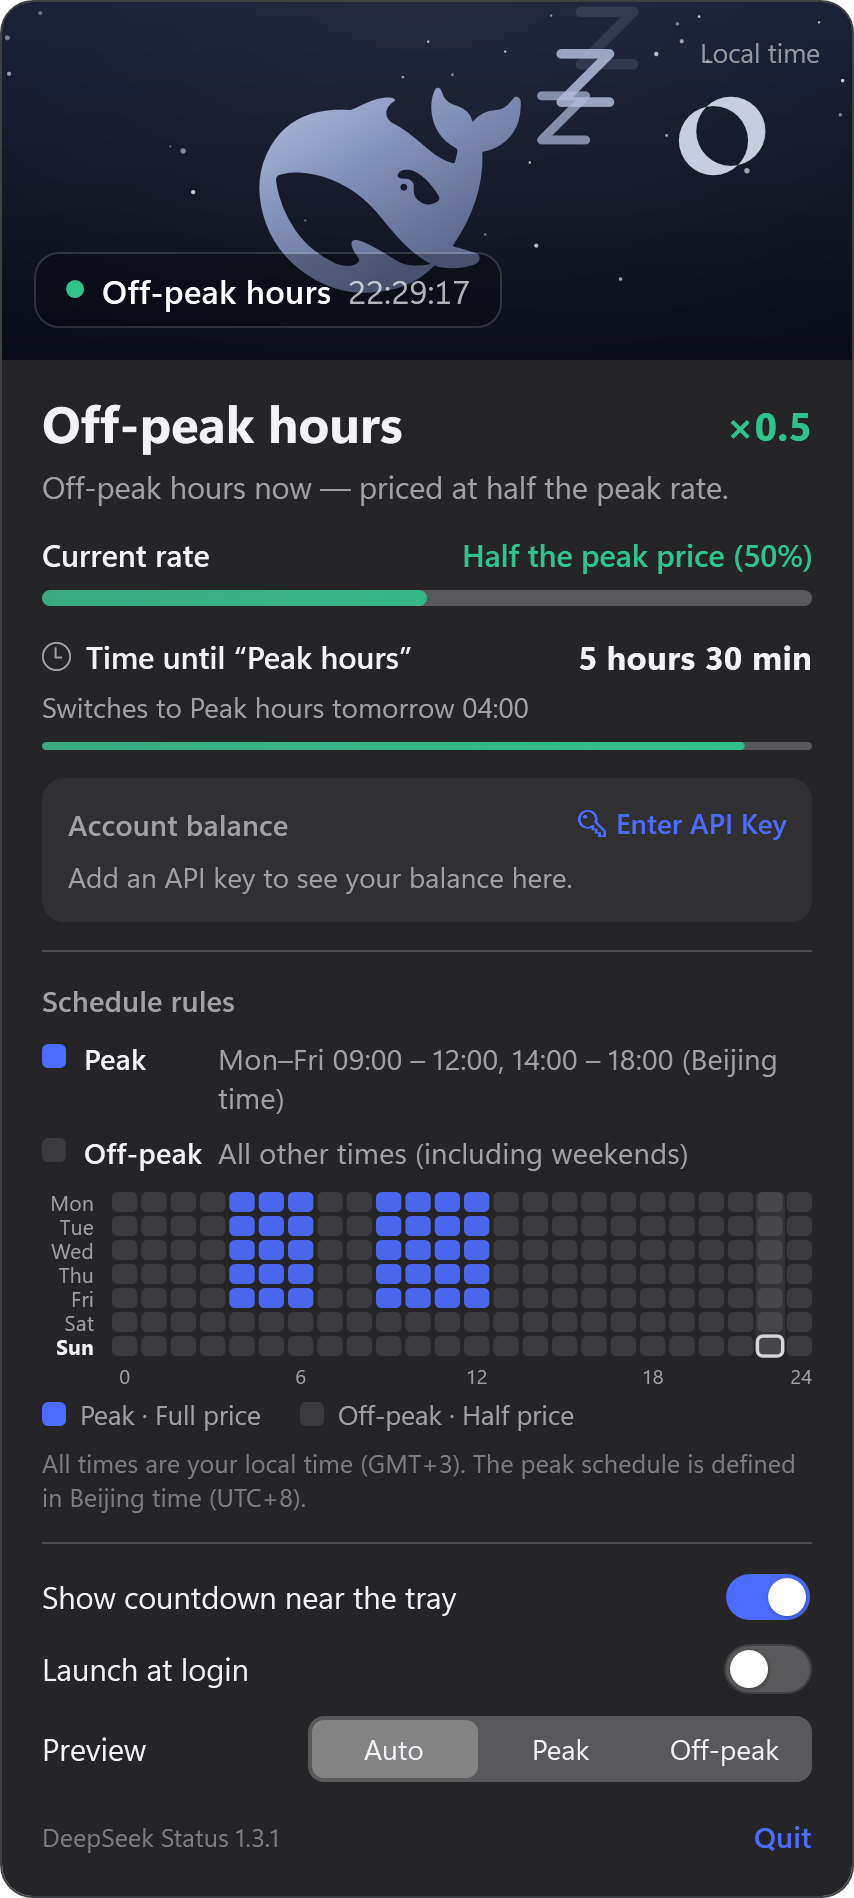
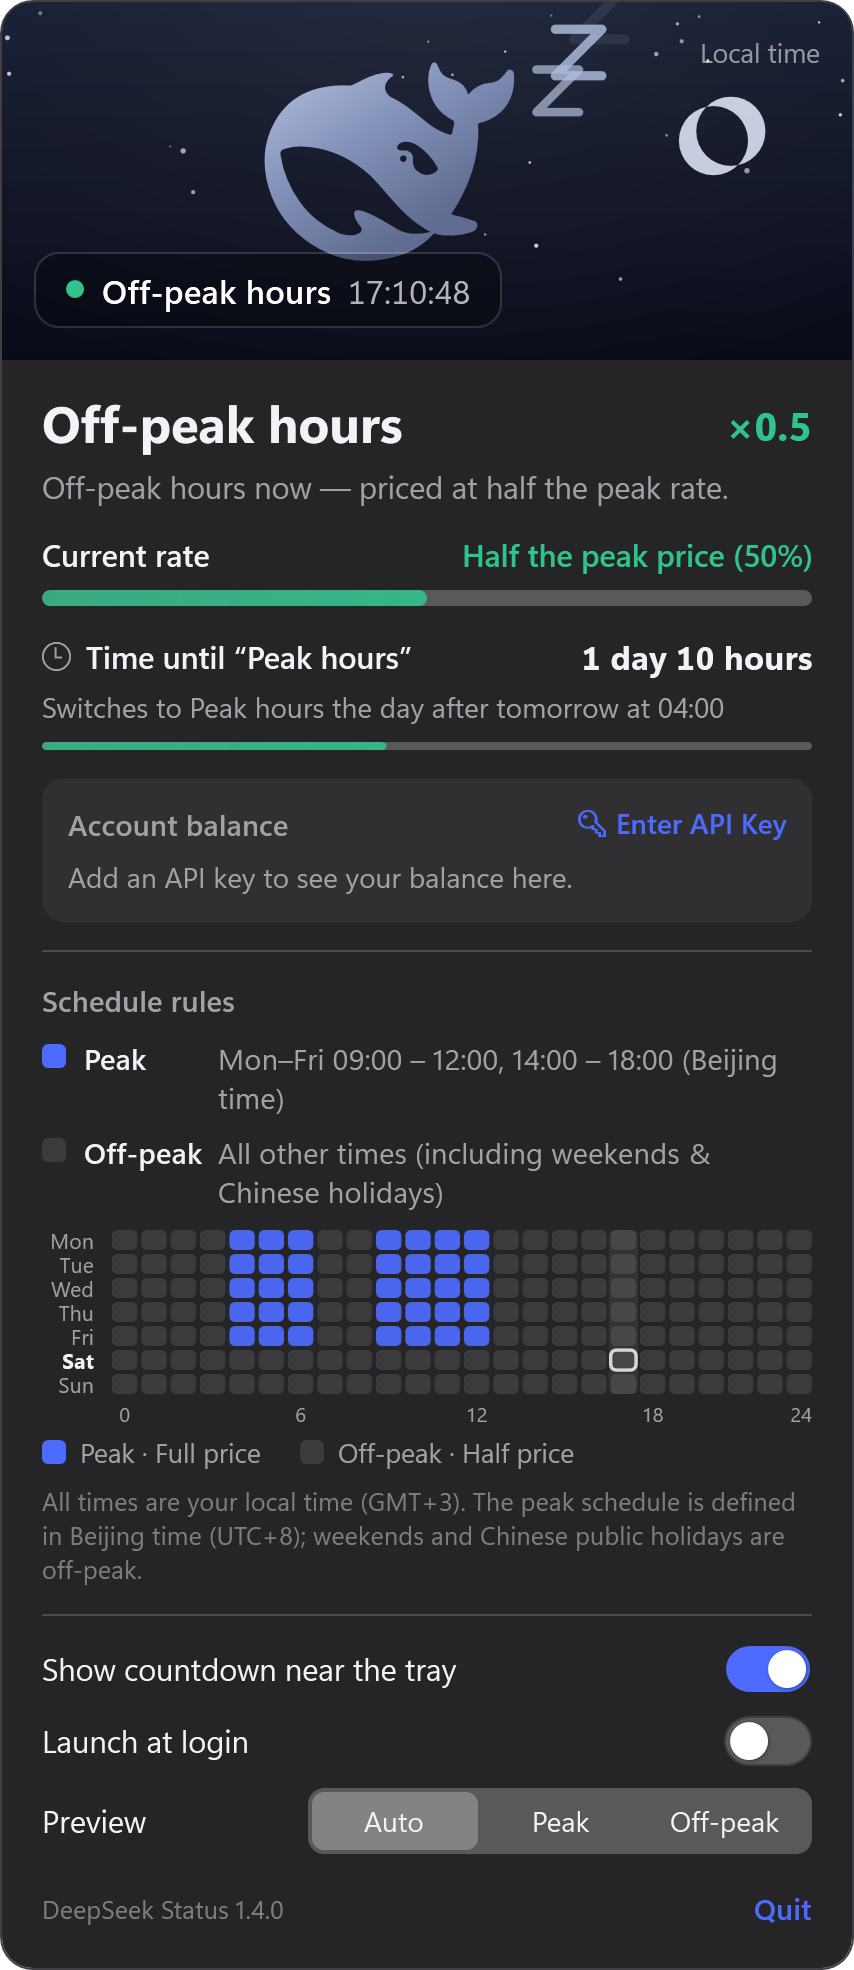
Bill Chinese public holidays as off-peak
DeepSeek's updated pricing notice excludes Chinese public holidays from peak hours and keeps adjusted-work-day weekends off-peak. Adds an embedded holiday calendar (State Council notices 2025-2026, via holiday-cn), holiday-aware period/transition/interval logic, a panel notice on holidays, an updater script and holiday self-tests. Bumps version to 1.4.0.

diff --git a/src/DeepSeekStatus/Views/PanelWindow.xaml b/src/DeepSeekStatus/Views/PanelWindow.xaml
@@ -172,6 +172,9 @@
                     </Grid>
                     <TextBlock x:Name="PeriodSummary" Margin="0,5,0,0" FontSize="15.3"
                                Foreground="{DynamicResource TextSecondary}" TextWrapping="Wrap" />
+                    <TextBlock x:Name="HolidayNotice" Margin="0,5,0,0" FontSize="14"
+                               Foreground="{DynamicResource TextSecondary}" TextWrapping="Wrap"
+                               Visibility="Collapsed" />
 
                     <Grid Margin="0,14,0,0">
                         <TextBlock x:Name="CurrentRateLabel" FontSize="15.3" FontWeight="Medium"

diff --git a/src/DeepSeekStatus/Models/DeepSeekPricing.cs b/src/DeepSeekStatus/Models/DeepSeekPricing.cs
@@ -11,7 +11,9 @@ public static class DeepSeekPricing
     public static PricePeriod PeriodAt(DateTimeOffset instant)
     {
         var beijing = instant.ToOffset(BeijingOffset);
-        if (beijing.DayOfWeek is DayOfWeek.Saturday or DayOfWeek.Sunday)
+        var day = DateOnly.FromDateTime(beijing.DateTime);
+        if (beijing.DayOfWeek is DayOfWeek.Saturday or DayOfWeek.Sunday
+            || Support.ChineseHolidays.IsHoliday(day))
         {
             return PricePeriod.OffPeak;
         }
@@ -46,7 +48,7 @@ public static class DeepSeekPricing
     {
         var current = PeriodAt(now);
         var day = DateOnly.FromDateTime(now.ToOffset(BeijingOffset).DateTime);
-        for (var i = 0; i < 8; i++)
+        for (var i = 0; i < 32; i++)
         {
             foreach (var candidate in BoundariesOnDay(day.AddDays(i)).Order())
             {
@@ -64,14 +66,21 @@ public static class DeepSeekPricing
     {
         var day = DateOnly.FromDateTime(now.ToOffset(BeijingOffset).DateTime);
         DateTimeOffset? best = null;
-        for (var i = -9; i <= 9; i++)
+        for (var i = -14; i <= 9; i++)
         {
             foreach (var boundary in BoundariesOnDay(day.AddDays(i)))
             {
-                if (boundary <= now && (best is null || boundary > best.Value))
+                if (boundary > now || (best is not null && boundary <= best.Value))
                 {
-                    best = boundary;
+                    continue;
                 }
+
+                if (PeriodAt(boundary.AddSeconds(-1)) == PeriodAt(boundary))
+                {
+                    continue;
+                }
+
+                best = boundary;
             }
         }
 
@@ -106,11 +115,15 @@ public sealed class PricingSnapshot : IEquatable<PricingSnapshot>
     public PricingSnapshot(DateTimeOffset now)
     {
         Now = now;
+        var beijingDay = DateOnly.FromDateTime(now.ToOffset(DeepSeekPricing.BeijingOffset).DateTime);
+        IsHoliday = Support.ChineseHolidays.IsHoliday(beijingDay);
         Period = DeepSeekPricing.PeriodAt(now);
         IntervalStart = DeepSeekPricing.CurrentIntervalStart(now);
         NextTransition = DeepSeekPricing.NextTransition(now);
         NextPeriod = DeepSeekPricing.PeriodAt(NextTransition.AddSeconds(1));
     }
+
+    public bool IsHoliday { get; }
 
     public bool Equals(PricingSnapshot? other) =>
         other is not null
@@ -118,9 +131,10 @@ public sealed class PricingSnapshot : IEquatable<PricingSnapshot>
         && Period == other.Period
         && IntervalStart == other.IntervalStart
         && NextTransition == other.NextTransition
-        && NextPeriod == other.NextPeriod;
+        && NextPeriod == other.NextPeriod
+        && IsHoliday == other.IsHoliday;
 
     public override bool Equals(object? obj) => Equals(obj as PricingSnapshot);
 
-    public override int GetHashCode() => HashCode.Combine(Now, Period, IntervalStart, NextTransition, NextPeriod);
+    public override int GetHashCode() => HashCode.Combine(Now, Period, IntervalStart, NextTransition, NextPeriod, IsHoliday);
 }

diff --git a/src/DeepSeekStatus/Support/SelfTest.cs b/src/DeepSeekStatus/Support/SelfTest.cs
@@ -96,6 +96,25 @@ public static class SelfTest
         Check("balance unauthorized replaces key", new BalanceException(BalanceErrorKind.Unauthorized).SuggestsReplacingKey, true);
         Check("balance http keeps key", new BalanceException(BalanceErrorKind.Http, status: 500).SuggestsReplacingKey, false);
 
+        DateTimeOffset D(int year, int month, int day, int hour, int minute = 0) =>
+            new(year, month, day, hour, minute, 0, DeepSeekPricing.BeijingOffset);
+
+        Check("holiday data covers 2026", ChineseHolidays.CoversYear(2026), true);
+        Check("holiday data lacks 2027", ChineseHolidays.CoversYear(2027), false);
+        Check("national day Thu 10:00", DeepSeekPricing.PeriodAt(D(2026, 10, 1, 10)), PricePeriod.OffPeak);
+        Check("day after holiday Thu 10:00", DeepSeekPricing.PeriodAt(D(2026, 10, 8, 10)), PricePeriod.Peak);
+        Check("adjusted workday Sat 10:00", DeepSeekPricing.PeriodAt(D(2026, 10, 10, 10)), PricePeriod.OffPeak);
+        Check("mid-autumn Fri 10:00", DeepSeekPricing.PeriodAt(D(2026, 9, 25, 10)), PricePeriod.OffPeak);
+        Check("day before mid-autumn Thu 10:00", DeepSeekPricing.PeriodAt(D(2026, 9, 24, 10)), PricePeriod.Peak);
+        Check("spring festival Tue 10:00", DeepSeekPricing.PeriodAt(D(2026, 2, 17, 10)), PricePeriod.OffPeak);
+        Check("2025 national day Wed 10:00", DeepSeekPricing.PeriodAt(D(2025, 10, 1, 10)), PricePeriod.OffPeak);
+        Check("unknown year falls back", DeepSeekPricing.PeriodAt(D(2030, 1, 1, 10)), PricePeriod.Peak);
+        Check("next after holiday starts", DeepSeekPricing.NextTransition(D(2026, 10, 1, 8)), D(2026, 10, 8, 9));
+        Check("next after spring festival", DeepSeekPricing.NextTransition(D(2026, 2, 13, 19)), D(2026, 2, 24, 9));
+        Check("interval start across holiday", DeepSeekPricing.CurrentIntervalStart(D(2026, 10, 5, 10)), D(2026, 9, 30, 18));
+        Check("snapshot holiday flag", new PricingSnapshot(D(2026, 10, 1, 10)).IsHoliday, true);
+        Check("snapshot non-holiday flag", new PricingSnapshot(D(2026, 10, 8, 10)).IsHoliday, false);
+
         const string testTarget = "DeepSeekStatus/selftest-key";
         CredentialManager.Delete(testTarget);
         CredentialManager.Save("sk-selftest-123", testTarget);

diff --git a/src/DeepSeekStatus/Support/Strings.cs b/src/DeepSeekStatus/Support/Strings.cs
@@ -25,14 +25,16 @@ public static class Strings
         ["popover.countdown.detail"] = ("Switches to {1} {0}", "{0} 起转为{1}"),
         ["popover.schedule.title"] = ("Schedule rules", "时段规则"),
         ["popover.schedule.peak.detail"] = ("Mon–Fri 09:00 – 12:00, 14:00 – 18:00 (Beijing time)", "周一至周五 09:00 – 12:00、14:00 – 18:00（北京时间）"),
-        ["popover.schedule.offPeak.detail"] = ("All other times (including weekends)", "其余时间（含周末全天）"),
-        ["popover.footnote.beijing"] = ("All times are Beijing time (UTC+8).", "所有时间均为北京时间（UTC+8）。"),
-        ["popover.footnote.localZone"] = ("All times are your local time ({0}). The peak schedule is defined in Beijing time (UTC+8).", "所有时间均为你本机时间（{0}）。高峰时段按北京时间（UTC+8）计算。"),
+        ["popover.schedule.offPeak.detail"] = ("All other times (including weekends & Chinese holidays)", "其余时间（含周末与法定节假日）"),
+        ["popover.footnote.beijing"] = ("All times are Beijing time (UTC+8). Weekends and Chinese public holidays are off-peak.", "所有时间均为北京时间（UTC+8）。周末与法定节假日按空闲价计费。"),
+        ["popover.footnote.localZone"] = ("All times are your local time ({0}). The peak schedule is defined in Beijing time (UTC+8); weekends and Chinese public holidays are off-peak.", "所有时间均为你本机时间（{0}）。高峰时段按北京时间（UTC+8）计算，周末与法定节假日按空闲价计费。"),
         ["popover.option.countdown"] = ("Show countdown near the tray", "在托盘旁显示倒计时"),
         ["popover.option.launchAtLogin"] = ("Launch at login", "开机自动启动"),
         ["popover.preview.label"] = ("Preview", "预览"),
         ["popover.preview.auto"] = ("Auto", "自动"),
         ["popover.quit"] = ("Quit", "退出"),
+
+        ["popover.holiday.notice"] = ("Chinese public holiday — off-peak all day.", "今天是法定节假日，全天按空闲价计费。"),
 
         ["balance.title"] = ("Account balance", "账户余额"),
         ["balance.refresh"] = ("Refresh", "刷新"),

diff --git a/src/DeepSeekStatus/Support/ChineseHolidays.cs b/src/DeepSeekStatus/Support/ChineseHolidays.cs
@@ -1,0 +1,52 @@
+using System.Reflection;
+using System.Text.Json;
+
+namespace DeepSeekStatus.Support;
+
+public static class ChineseHolidays
+{
+    private const string ResourceName = "DeepSeekStatus.Assets.china-holidays.json";
+
+    private static readonly HashSet<DateOnly> OffDays = Load();
+
+    public static bool HasData => OffDays.Count > 0;
+
+    public static bool CoversYear(int year) => OffDays.Any(day => day.Year == year);
+
+    public static bool IsHoliday(DateOnly day) => OffDays.Contains(day);
+
+    private static HashSet<DateOnly> Load()
+    {
+        var days = new HashSet<DateOnly>();
+        try
+        {
+            using var stream = Assembly.GetExecutingAssembly().GetManifestResourceStream(ResourceName);
+            if (stream is null)
+            {
+                return days;
+            }
+
+            using var document = JsonDocument.Parse(stream);
+            if (!document.RootElement.TryGetProperty("years", out var years))
+            {
+                return days;
+            }
+
+            foreach (var year in years.EnumerateObject())
+            {
+                foreach (var entry in year.Value.EnumerateArray())
+                {
+                    if (entry.GetString() is { } text && DateOnly.TryParse(text, out var date))
+                    {
+                        days.Add(date);
+                    }
+                }
+            }
+        }
+        catch
+        {
+        }
+
+        return days;
+    }
+}

diff --git a/src/DeepSeekStatus/Views/PanelWindow.xaml.cs b/src/DeepSeekStatus/Views/PanelWindow.xaml.cs
@@ -139,6 +139,8 @@ public partial class PanelWindow : Window
         Multiplier.Text = "×" + period.PriceMultiplier().ToString("0.0", CultureInfo.InvariantCulture);
         Multiplier.Foreground = Theme.Brush(accent);
         PeriodSummary.Text = period.Summary();
+        HolidayNotice.Text = Strings.Get("popover.holiday.notice");
+        HolidayNotice.Visibility = snapshot.IsHoliday ? Visibility.Visible : Visibility.Collapsed;
 
         RateText.Text = period.PriceText();
         RateText.Foreground = Theme.Brush(accent);

diff --git a/README.md b/README.md
@@ -78,8 +78,11 @@ Details (identical to the macOS app):
   (clock, countdown detail, weekly heat map) is converted to your local time zone, DST included.
   For example, 09:00 Beijing is 04:00 in Athens (UTC+3) and 21:00 the previous day in New York
   (UTC-4), and the heat map shifts accordingly.
-- Only the weekday and the time of day are used. Chinese public holidays are **not** part of the
-  rule.
+- **Weekends and Chinese public holidays are off-peak all day** (per DeepSeek's pricing notice) —
+  including weekends that are adjusted into working days (调休) and holiday weekdays such as
+  National Day or Spring Festival. The holiday calendar is embedded (from the State Council's
+  annual notices, currently 2025–2026) so no network is needed; when a new year is published,
+  refresh it with `.\Tools\update-holidays.ps1` and rebuild.
 
 ## Requirements
 
@@ -132,6 +135,8 @@ Development helpers (same idea as the macOS `DEEPSEEK_STATUS_*` variables):
 - `DeepSeekStatus.exe --export-icons <dir>` — render `app.ico` and tray-icon PNGs.
 - `DeepSeekStatus.exe --export-panel <dir>` — render the panel itself to a 2× PNG (used for `Preview/`).
 - `DeepSeekStatus.exe --selftest` — run the built-in checks.
+- `.\Tools\update-holidays.ps1` — download the latest Chinese public holiday calendar from
+  [holiday-cn](https://github.com/NateScarlet/holiday-cn) and rewrite `Assets/china-holidays.json`.
 
 ## Differences from the macOS original
 
@@ -144,6 +149,8 @@ Development helpers (same idea as the macOS `DEEPSEEK_STATUS_*` variables):
 - Launch-at-login uses the per-user `Run` registry key rather than `SMAppService`.
 - Times in the panel are shown in your local time zone instead of Beijing time (the macOS
   original always displayed Beijing time). The billing logic itself is unchanged.
+- **Chinese public holidays are treated as off-peak**, following DeepSeek's updated pricing
+  notice — the macOS original (as of 1.2) does not handle holidays yet.
 - Everything else — the pricing math, half-open Beijing-time ranges, countdown, progress bars,
   weekly heat map, preview banner, whale vector, palette and the opt-in balance feature — is a
   direct port of the Swift sources in `DeepSeekStatus/` (see the `DeepSeekStatus-macos`

diff --git a/CHANGELOG.md b/CHANGELOG.md
@@ -4,6 +4,21 @@ All notable changes to the Windows port of DeepSeek Status. Version numbers trac
 the upstream macOS project (the balance feature matches upstream 1.2) plus patch
 releases for port-specific fixes.
 
+## [1.4.0] — 2026-09-13
+
+### Added
+
+- **Chinese public holidays are now off-peak**, matching DeepSeek's updated pricing notice
+  ("weekends with adjusted working days and Chinese public holidays are all billed at off-peak
+  rates"). Weekdays that are public holidays no longer show as peak, and countdown/progress
+  calculations span holiday blocks correctly.
+- Embedded holiday calendar (State Council notices, 2025–2026) from
+  [holiday-cn](https://github.com/NateScarlet/holiday-cn) — still no network required.
+- The panel shows a "Chinese public holiday — off-peak all day" line when today is a holiday.
+- `Tools/update-holidays.ps1` refreshes the embedded calendar when a new year is published.
+- Self-tests cover National Day, Spring Festival, Mid-Autumn, adjusted work weekends, the
+  post-holiday transition and the unknown-year fallback.
+
 ## [1.3.1] — 2026-09-13
 
 ### Fixed
@@ -62,6 +77,7 @@ releases for port-specific fixes.
   - Self-contained local publishing (`build.ps1 -Publish`, no CI required).
   - Built-in self-test (`--selftest`).
 
+[1.4.0]: https://github.com/tespio/DeepSeekStatus/releases/tag/v1.4.0
 [1.3.1]: https://github.com/tespio/DeepSeekStatus/releases/tag/v1.3.1
 [1.3.0]: https://github.com/tespio/DeepSeekStatus/releases/tag/v1.3.0
 [1.2.0]: https://github.com/tespio/DeepSeekStatus/releases/tag/v1.2.0
